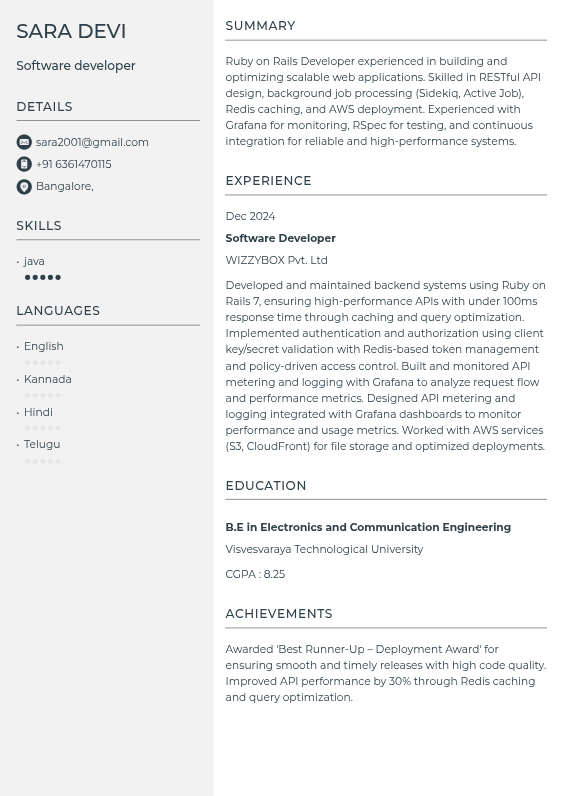
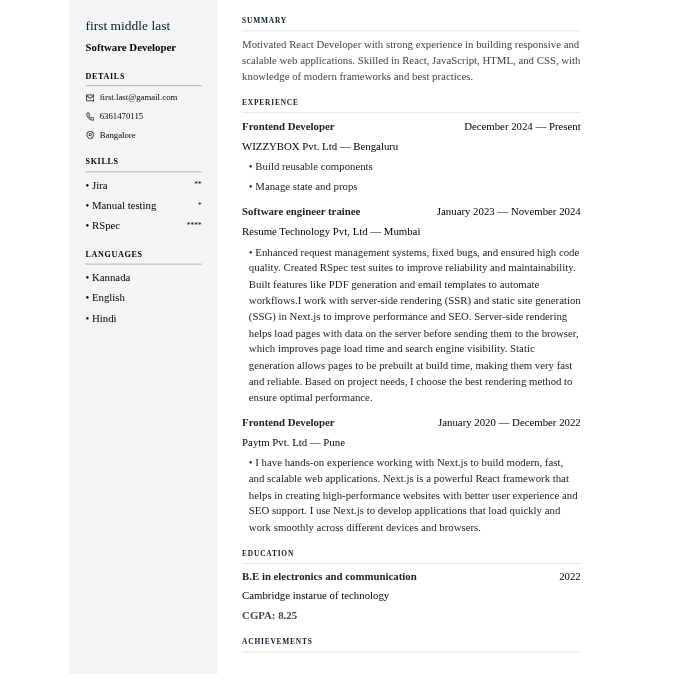
template 17 bug fixes

diff --git a/src/templates/display/Template17Display.tsx b/src/templates/display/Template17Display.tsx
@@ -34,10 +34,10 @@ const formatMonthYear = (s?: string) => {
 const getSkillStars = (level?: string) => {
   const normalizedLevel = String(level || '').toLowerCase().trim();
   switch (normalizedLevel) {
-    case 'beginner': return '★';
-    case 'intermediate': return '★★';
-    case 'advanced': return '★★★★';
-    case 'expert': return '★★★★★';
+    case 'beginner': return '*';
+    case 'intermediate': return '**';
+    case 'advanced': return '****';
+    case 'expert': return '*****';
     default: return '';
   }
 };
@@ -55,19 +55,19 @@ const Template17Display: React.FC<Template17DisplayProps> = ({ data }) => {
           {role && <div style={{ color: '#000', marginTop: 6, fontWeight: 700 }}>{role}</div>}
 
           <div style={{ marginTop: 20 }}>
-            <div style={{ fontSize: 12, fontWeight: 700, letterSpacing: 1, color: '#374151' }}>DETAILS</div>
-            <div style={{ height: 1, background: '#e5e7eb', marginTop: 6, marginBottom: 8 }} />
-            <div style={{ color: '#374151', fontSize: 13 }}>
-              {personal.email && <div style={{ marginTop: 8, display: 'flex', alignItems: 'center', gap: 8 }}><FiMail style={{ color: '#374151' }} /><a href={`mailto:${personal.email}`} style={{ color: '#374151', textDecoration: 'none' }}>{personal.email}</a></div>}
-              {personal.mobileNumber && <div style={{ marginTop: 8, display: 'flex', alignItems: 'center', gap: 8 }}><FiPhone style={{ color: '#374151' }} /><a href={`tel:${personal.mobileNumber}`} style={{ color: '#374151', textDecoration: 'none' }}>{personal.mobileNumber}</a></div>}
-              {personal.address && <div style={{ marginTop: 8, display: 'flex', alignItems: 'center', gap: 8 }}><FiMapPin style={{ color: '#374151' }} /><div>{String(personal.address).split(',')[0]}</div></div>}
+            <div style={{ fontSize: 12, fontWeight: 700, letterSpacing: 1, color: '#000' }}>DETAILS</div>
+            <div style={{ height: 1, background: '#999', marginTop: 6, marginBottom: 8 }} />
+            <div style={{ color: '#000', fontSize: 13 }}>
+              {personal.email && <div style={{ marginTop: 8, display: 'flex', alignItems: 'center', gap: 8 }}><FiMail style={{ color: '#000' }} /><a href={`mailto:${personal.email}`} style={{ color: '#000', textDecoration: 'none' }}>{personal.email}</a></div>}
+              {personal.mobileNumber && <div style={{ marginTop: 8, display: 'flex', alignItems: 'center', gap: 8 }}><FiPhone style={{ color: '#000' }} /><a href={`tel:${personal.mobileNumber}`} style={{ color: '#000', textDecoration: 'none' }}>{personal.mobileNumber}</a></div>}
+              {personal.address && <div style={{ marginTop: 8, display: 'flex', alignItems: 'center', gap: 8 }}><FiMapPin style={{ color: '#000' }} /><div>{String(personal.address).split(',')[0]}</div></div>}
             </div>
           </div>
 
           <div style={{ marginTop: 20 }}>
-            <div style={{ fontSize: 12, fontWeight: 700, letterSpacing: 1, color: '#374151' }}>SKILLS</div>
-            <div style={{ height: 1, background: '#e5e7eb', marginTop: 6, marginBottom: 8 }} />
-            <div style={{ color: '#374151' }}>
+            <div style={{ fontSize: 12, fontWeight: 700, letterSpacing: 1, color: '#000' }}>SKILLS</div>
+            <div style={{ height: 1, background: '#999', marginTop: 6, marginBottom: 8 }} />
+            <div style={{ color: '#000' }}>
               {(skillsLinks.skills || []).filter(s => s.enabled && s.skillName).slice(0,6).map((s, i) => (
                 <div key={i} style={{ marginBottom: 6, display: 'flex', justifyContent: 'space-between', alignItems: 'center', gap: 8 }}>
                   <span>• {s.skillName}</span>
@@ -78,11 +78,11 @@ const Template17Display: React.FC<Template17DisplayProps> = ({ data }) => {
           </div>
 
           <div style={{ marginTop: 20 }}>
-            <div style={{ fontSize: 12, fontWeight: 700, letterSpacing: 1, color: '#374151' }}>LANGUAGES</div>
-            <div style={{ height: 1, background: '#e5e7eb', marginTop: 6, marginBottom: 8 }} />
-            <ul style={{ paddingLeft: 16, color: '#374151' }}>
-              {(((personal as any).languagesKnown || (personal as any).languages || [])).map((l: string, i: number) => <li key={i} style={{ marginBottom: 6 }}>{l}</li>)}
-            </ul>
+            <div style={{ fontSize: 12, fontWeight: 700, letterSpacing: 1, color: '#000' }}>LANGUAGES</div>
+            <div style={{ height: 1, background: '#999', marginTop: 6, marginBottom: 8 }} />
+            <div style={{ color: '#000' }}>
+              {(((personal as any).languagesKnown || (personal as any).languages || [])).map((l: string, i: number) => <div key={i} style={{ marginBottom: 6 }}>• {l}</div>)}
+            </div>
           </div>
 
         </aside>
@@ -105,9 +105,9 @@ const Template17Display: React.FC<Template17DisplayProps> = ({ data }) => {
                 <div key={i} style={{ marginBottom: 12 }}>
                   <div style={{ display: 'flex', justifyContent: 'space-between' }}>
                     <div style={{ fontWeight: 700 }}>{w.jobTitle}</div>
-                    <div style={{ color: '#6b7280' }}>{formatMonthYear(w.startDate)} — {w.currentlyWorking ? 'Present' : formatMonthYear(w.endDate)}</div>
-                  </div>
-                  <div style={{ color: '#444', marginTop: 6 }}>{w.companyName}{w.location ? ` — ${w.location}` : ''}</div>
+                  <div style={{ color: '#000' }}>{formatMonthYear(w.startDate)} — {w.currentlyWorking ? 'Present' : formatMonthYear(w.endDate)}</div>
+                </div>
+                <div style={{ color: '#000', marginTop: 6 }}>{w.companyName}{w.location ? ` — ${w.location}` : ''}</div>
                   {w.description && <div style={{ marginTop: 6, paddingLeft: 10 }}>{htmlToLines(w.description).map((ln, idx) => <div key={idx} style={{ marginTop: 6 }}>• {ln}</div>)}</div>}
                 </div>
               ))}
@@ -122,9 +122,9 @@ const Template17Display: React.FC<Template17DisplayProps> = ({ data }) => {
                 <div key={i} style={{ marginBottom: 12 }}>
                   <div style={{ display: 'flex', justifyContent: 'space-between' }}>
                     <div style={{ fontWeight: 700 }}>{edu.degree}{edu.fieldOfStudy ? ` in ${edu.fieldOfStudy}` : ''}</div>
-                    <div style={{ color: '#6b7280' }}>{(edu.endYear ? String(edu.endYear).match(/(\d{4})/)?.[1] : '')}</div>
+                    <div style={{ color: '#000' }}>{(edu.endYear ? String(edu.endYear).match(/(\d{4})/)?.[1] : '')}</div>
                   </div>
-                  <div style={{ color: '#444', marginTop: 4 }}>{edu.instituteName}</div>
+                  <div style={{ color: '#000', marginTop: 4 }}>{edu.instituteName}</div>
                   {edu.resultFormat && edu.result ? (
                     <div style={{ marginTop: 6, color: '#444', fontWeight: 700 }}>{edu.resultFormat}: {edu.result}</div>
                   ) : null}

diff --git a/src/templates/pdf/Template17PDF.tsx b/src/templates/pdf/Template17PDF.tsx
@@ -75,14 +75,14 @@ const StarIcon = () => (
   </Svg>
 );
 
-const getSkillStarsCount = (level?: string) => {
+const getSkillStars = (level?: string) => {
   const normalizedLevel = String(level || '').toLowerCase().trim();
   switch (normalizedLevel) {
-    case 'beginner': return 1;
-    case 'intermediate': return 2;
-    case 'advanced': return 4;
-    case 'expert': return 5;
-    default: return 0;
+    case 'beginner': return '*';
+    case 'intermediate': return '**';
+    case 'advanced': return '****';
+    case 'expert': return '*****';
+    default: return '';
   }
 };
 
@@ -98,23 +98,23 @@ const Template17PDF: React.FC<Template17PDFProps> = ({ data }) => {
           {role && <Text style={styles.role}>{role}</Text>}
 
           <View style={{ marginTop: 12 }}>
-            <Text style={{ fontSize: 11, fontFamily: 'Times-Bold', letterSpacing: 1, color: '#374151', marginBottom: 6 }}>DETAILS</Text>
-            <View style={{ height: 1, backgroundColor: '#e5e7eb', marginBottom: 8 }} />
-            {personal.email && <View style={{ flexDirection: 'row', alignItems: 'center', marginBottom: 6 }}><IconEmail /><Text style={{ fontSize: 10, color: '#374151' }}>{personal.email}</Text></View>}
-            {personal.mobileNumber && <View style={{ flexDirection: 'row', alignItems: 'center', marginBottom: 6 }}><IconPhone /><Text style={{ fontSize: 10, color: '#374151' }}>{personal.mobileNumber}</Text></View>}
-            {personal.address && <View style={{ flexDirection: 'row', alignItems: 'center', marginBottom: 6 }}><IconLocation /><Text style={{ fontSize: 10, color: '#374151' }}>{String(personal.address).split(',')[0]}</Text></View>}
+            <Text style={{ fontSize: 11, fontFamily: 'Times-Bold', letterSpacing: 1, color: '#000', marginBottom: 6 }}>DETAILS</Text>
+            <View style={{ height: 1, backgroundColor: '#999', marginBottom: 8 }} />
+            {personal.email && <View style={{ flexDirection: 'row', alignItems: 'center', marginBottom: 6 }}><IconEmail /><Text style={{ fontSize: 10, color: '#000' }}>{personal.email}</Text></View>}
+            {personal.mobileNumber && <View style={{ flexDirection: 'row', alignItems: 'center', marginBottom: 6 }}><IconPhone /><Text style={{ fontSize: 10, color: '#000' }}>{personal.mobileNumber}</Text></View>}
+            {personal.address && <View style={{ flexDirection: 'row', alignItems: 'center', marginBottom: 6 }}><IconLocation /><Text style={{ fontSize: 10, color: '#000' }}>{String(personal.address).split(',')[0]}</Text></View>}
           </View>
 
           <View style={{ marginTop: 18 }}>
             <Text style={styles.sectionHeading}>Skills</Text>
-            <View style={styles.divider} />
-            { (skillsLinks.skills || []).filter((s:any)=>s.enabled && s.skillName).slice(0,6).map((s:any,i:number)=>(<View key={i} style={{ marginTop: 6, flexDirection: 'row', justifyContent: 'space-between', alignItems: 'center' }}><Text style={{ fontSize: 10, color: '#374151', flex: 1 }}>• {s.skillName}</Text><View style={{ flexDirection: 'row', gap: 1 }}>{ Array.from({ length: getSkillStarsCount(s.skillLevel) }).map((_, idx) => <StarIcon key={idx} />) }</View></View>)) }
+            <View style={{ ...styles.divider, backgroundColor: '#999' }} />
+            { (skillsLinks.skills || []).filter((s:any)=>s.enabled && s.skillName).slice(0,6).map((s:any,i:number)=>(<View key={i} style={{ marginTop: 6, flexDirection: 'row', justifyContent: 'space-between', alignItems: 'center' }}><Text style={{ fontSize: 10, color: '#000', flex: 1 }}>• {s.skillName}</Text><Text style={{ fontSize: 10, color: '#000' }}>{getSkillStars(s.skillLevel)}</Text></View>)) }
           </View>
 
           <View style={{ marginTop: 18 }}>
             <Text style={styles.sectionHeading}>Languages</Text>
-            <View style={styles.divider} />
-            {(((personal as any).languagesKnown || (personal as any).languages || [])).map((l:string,i:number)=>(<Text key={i} style={{ marginTop: 6, fontSize: 10, color: '#374151' }}>• {l}</Text>))}
+            <View style={{ ...styles.divider, backgroundColor: '#999' }} />
+            {(((personal as any).languagesKnown || (personal as any).languages || [])).map((l:string,i:number)=>(<Text key={i} style={{ marginTop: 6, fontSize: 10, color: '#000' }}>• {l}</Text>))}
           </View>
 
         </View>
@@ -134,9 +134,9 @@ const Template17PDF: React.FC<Template17PDFProps> = ({ data }) => {
                 <View key={i} style={{ marginBottom: 10 }}>
                   <View style={{ flexDirection: 'row', justifyContent: 'space-between' }}>
                     <Text style={{ fontSize: 11, fontFamily: 'Times-Bold' }}>{w.jobTitle}</Text>
-                    <Text style={{ fontSize: 10, color: '#6b7280' }}>{formatMonthYear(w.startDate)} — {w.currentlyWorking ? 'Present' : formatMonthYear(w.endDate)}</Text>
+                    <Text style={{ fontSize: 10, color: '#000' }}>{formatMonthYear(w.startDate)} — {w.currentlyWorking ? 'Present' : formatMonthYear(w.endDate)}</Text>
                   </View>
-                  <Text style={{ marginTop: 6, color: '#444' }}>{w.companyName}{w.location ? ` — ${w.location}` : ''}</Text>
+                  <Text style={{ marginTop: 6, color: '#000' }}>{w.companyName}{w.location ? ` — ${w.location}` : ''}</Text>
                   {w.description && <View style={{ marginTop: 6, paddingLeft: 10 }}>{htmlToPlainText(w.description).split('\n').filter(Boolean).map((line, idx) => <Text key={idx} style={{ fontSize: 10, color: '#444', marginTop: 6 }}>• {line}</Text>)}</View>}
                 </View>
               ))}
@@ -151,9 +151,9 @@ const Template17PDF: React.FC<Template17PDFProps> = ({ data }) => {
                 <View key={i} style={{ marginBottom: 10 }}>
                   <View style={{ flexDirection: 'row', justifyContent: 'space-between' }}>
                     <Text style={{ fontSize: 11, fontFamily: 'Times-Bold' }}>{edu.degree}{edu.fieldOfStudy ? ` in ${edu.fieldOfStudy}` : ''}</Text>
-                    <Text style={{ fontSize: 10, color: '#6b7280' }}>{formatYear(edu.endYear)}</Text>
+                    <Text style={{ fontSize: 10, color: '#000' }}>{formatYear(edu.endYear)}</Text>
                   </View>
-                  <Text style={{ marginTop: 6, color: '#444' }}>{edu.instituteName}</Text>
+                  <Text style={{ marginTop: 6, color: '#000' }}>{edu.instituteName}</Text>
                   {edu.resultFormat && edu.result ? (
                     <Text style={{ fontSize: 10, color: '#444', fontFamily: 'Times-Bold', marginTop: 4 }}>{edu.resultFormat}: {edu.result}</Text>
                   ) : null}
